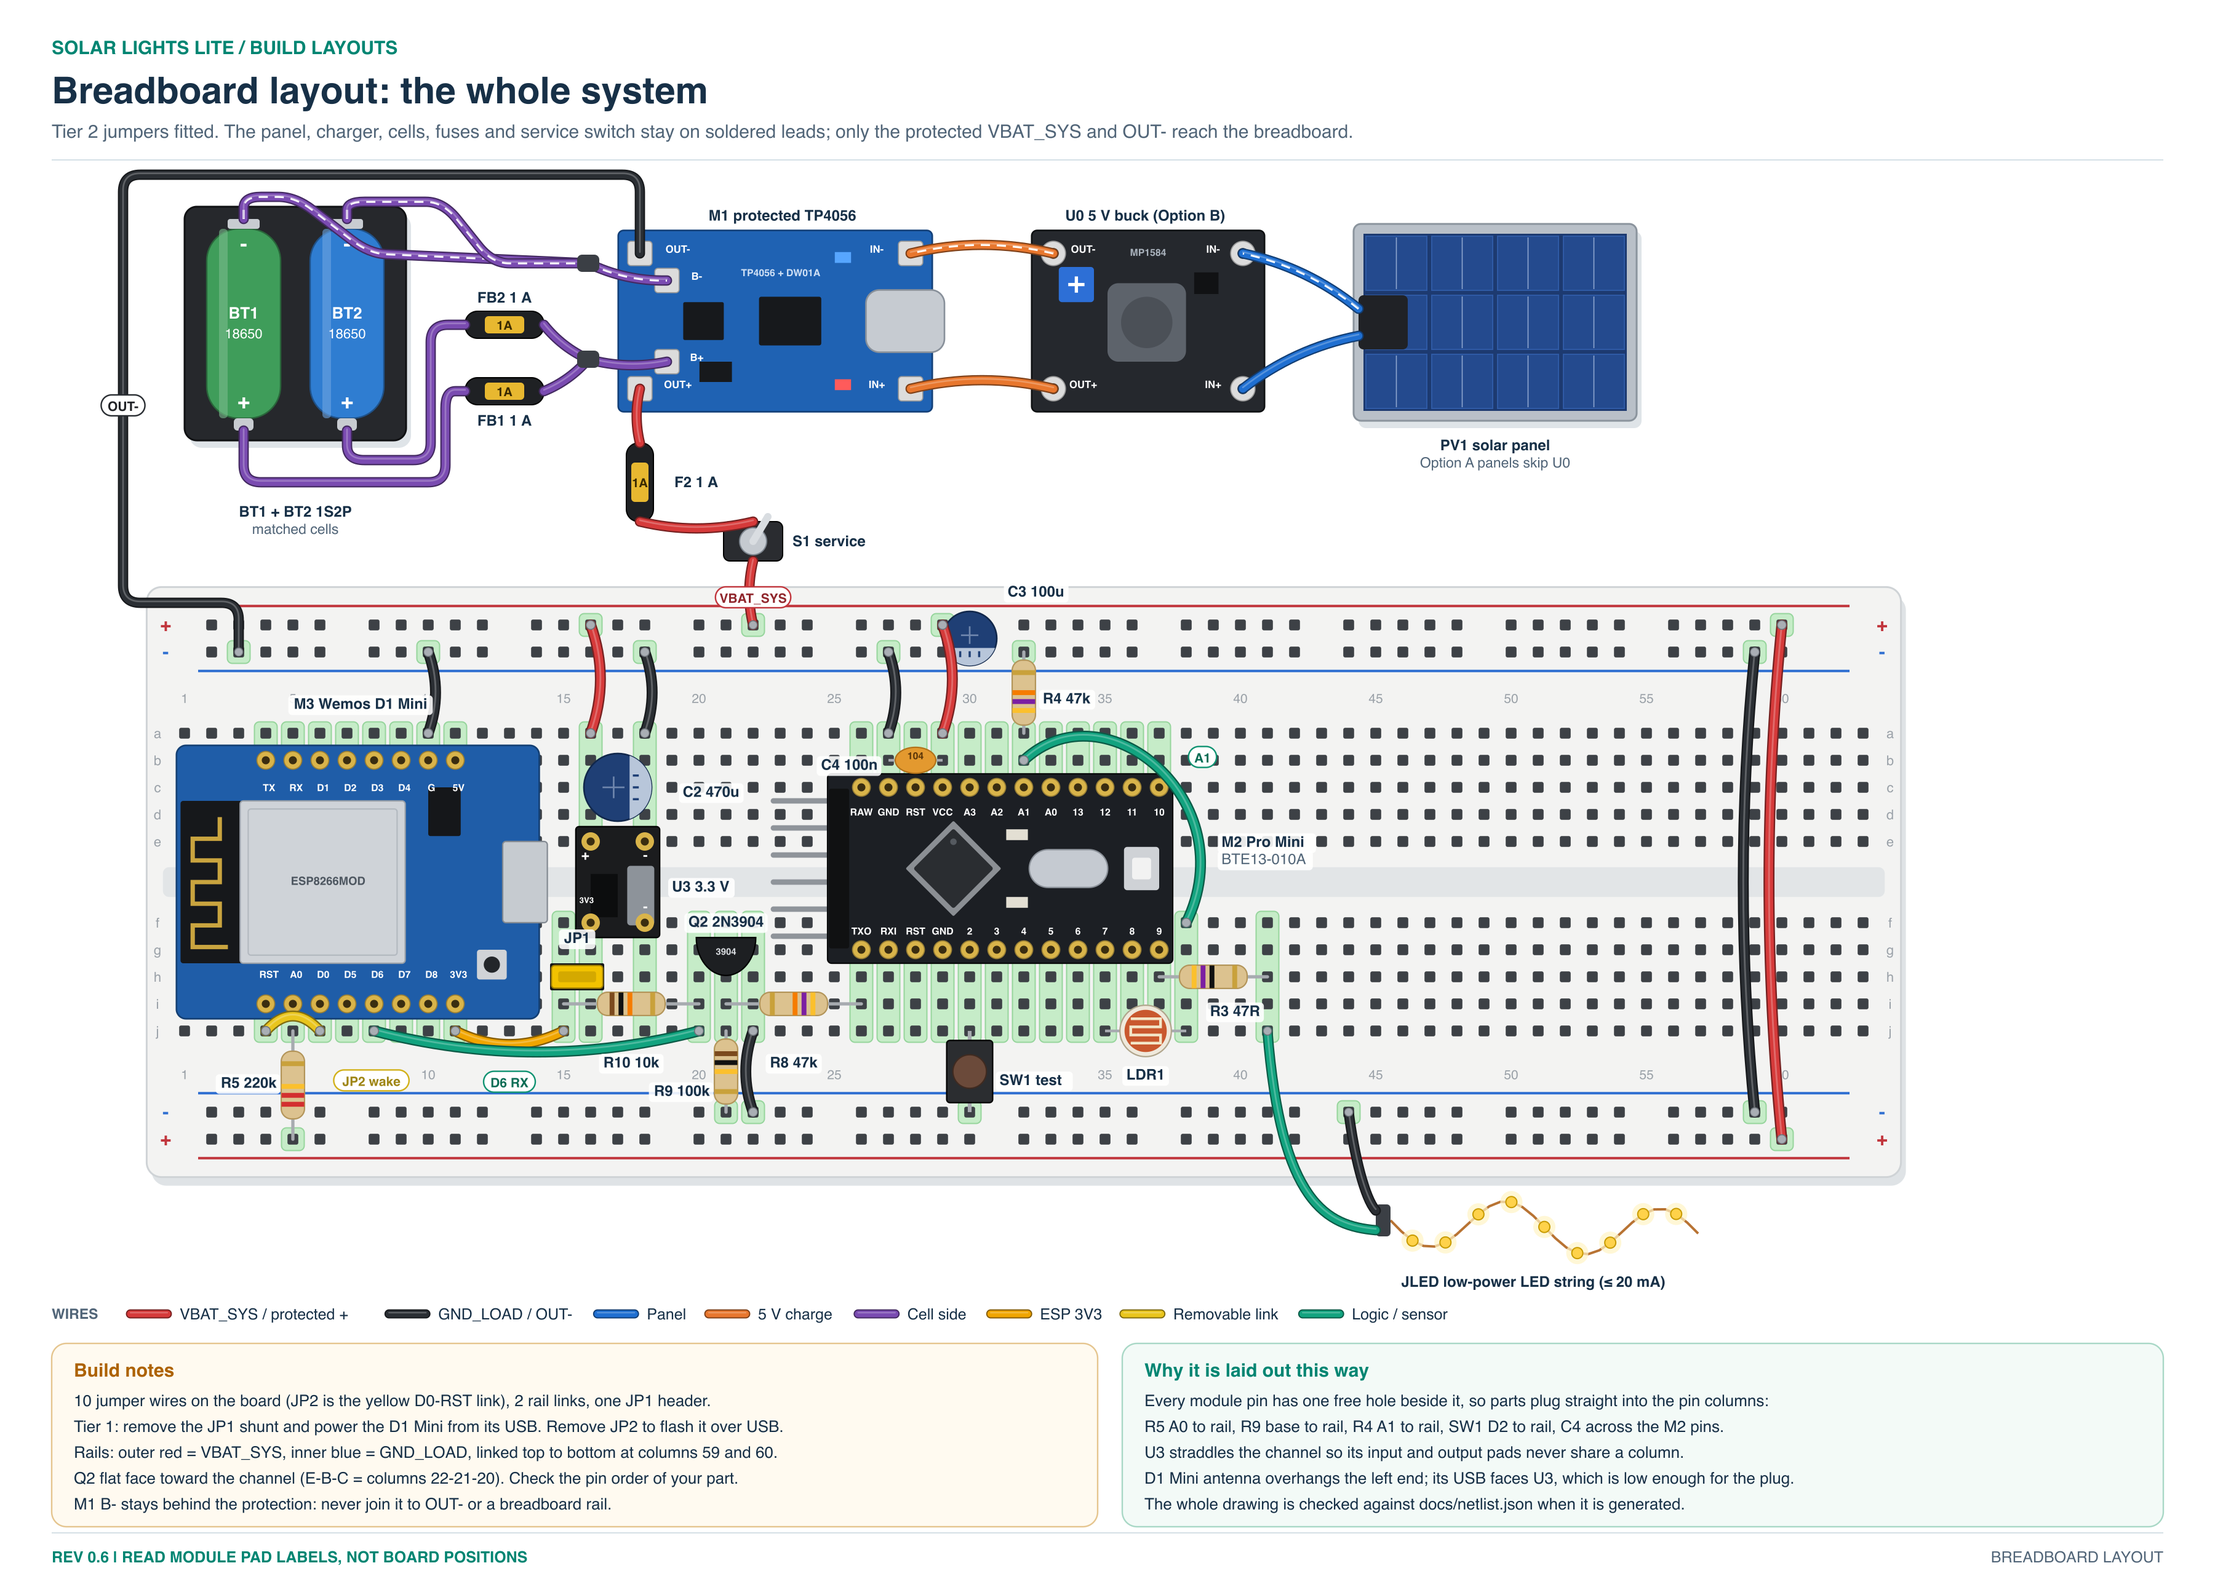
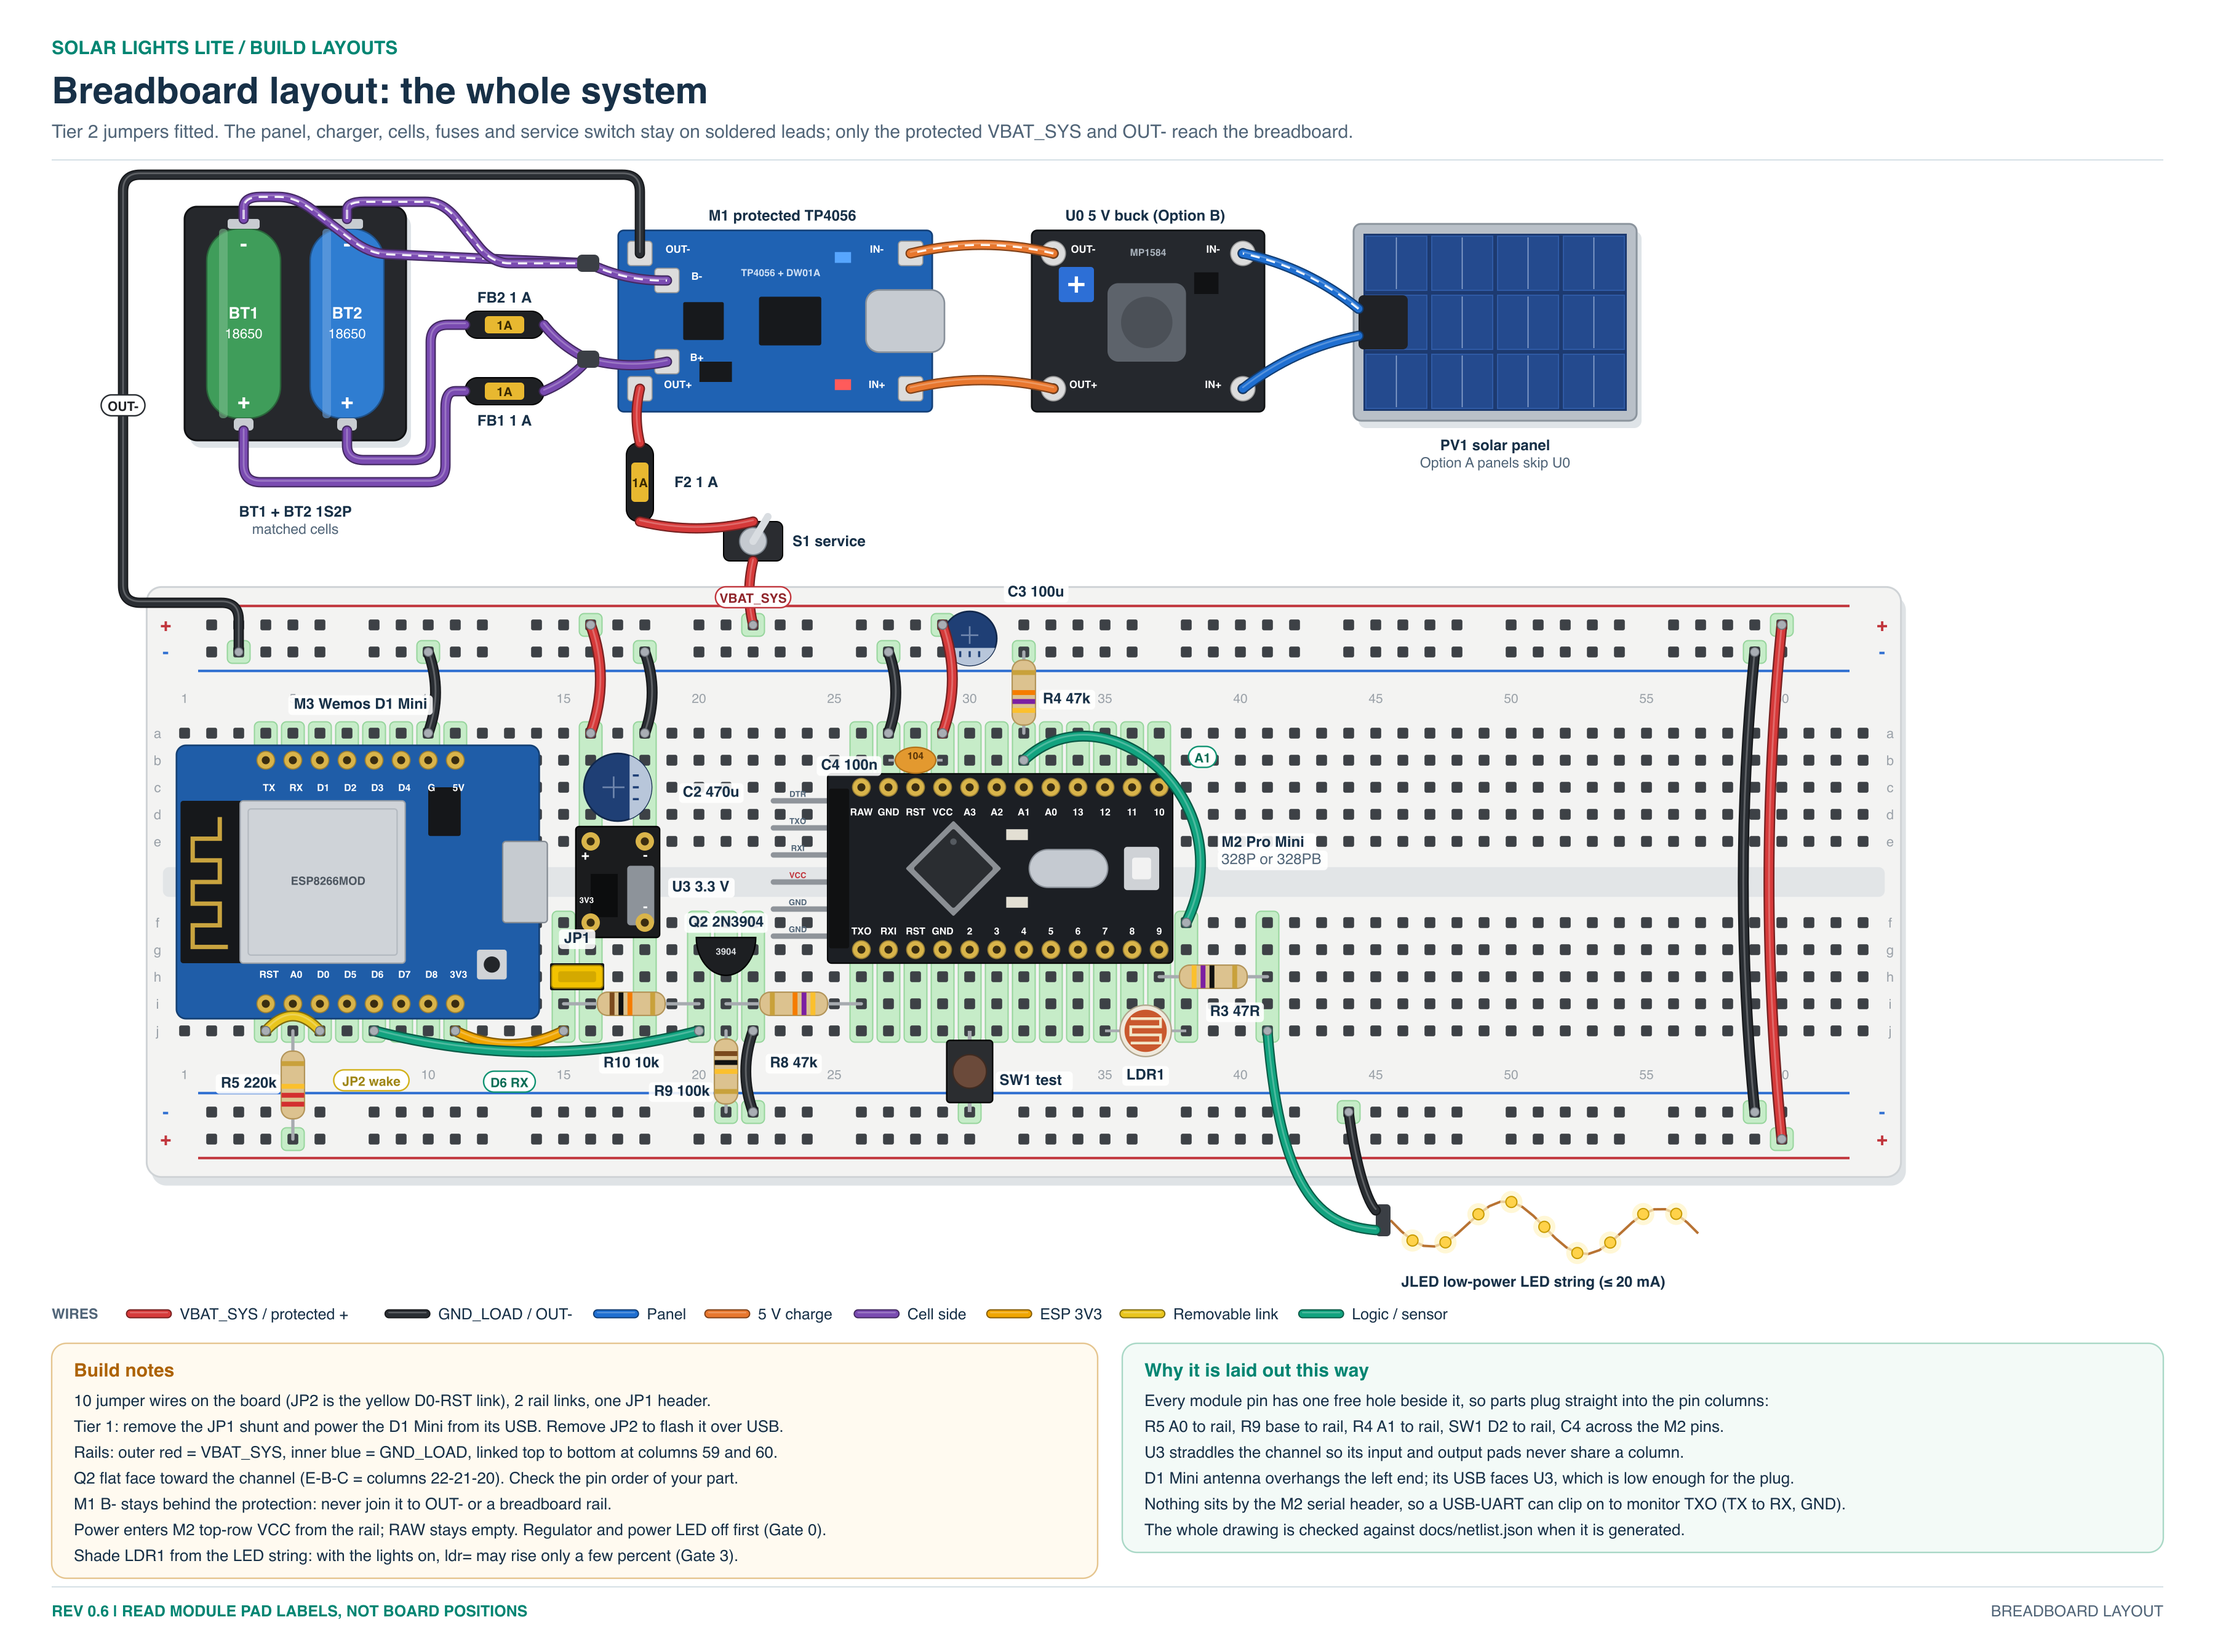
docs(layouts): add serial-header labels and v0.6 build notes
Label the M2 serial header (DTR, TXO, RXI, VCC, GND, GND; VCC is the
top-row VCC rail), mark M2 as 328P or 328PB, and add notes on powering
via VCC not RAW, regulator/LED rework before Gate 0, shading the LDR from
the string, and leaving the serial header free for a USB-UART monitor.

Changed region(s): [[0.0311, 0.031, 0.8711, 0.9922], [0.9022, 0.9612, 0.9644, 0.9922], [0.0933, 0.186, 0.1244, 0.2171]]

diff --git a/tools/make_layouts.py b/tools/make_layouts.py
@@ -145,8 +145,11 @@ def k_promini():
         s.rect(5.35, 1.55, 0.8, 0.4, fill='#e3dfd3')
         s.rect(5.35, 4.05, 0.8, 0.4, fill='#e3dfd3')
         pads(s, pins)
+    # serial header, top to bottom: its VCC is the same rail as top-row VCC
+    head = ['DTR', 'TXO', 'RXI', 'VCC', 'GND', 'GND']
     labels = [(t, i, 0.95, 0.36, '#ffffff') for i, t in enumerate(silk_t)] + \
-             [(t, i, 5.35, 0.36, '#ffffff') for i, t in enumerate(silk_b)]
+             [(t, i, 5.35, 0.36, '#ffffff') for i, t in enumerate(silk_b)] + \
+             [(t, -2.35, k + 0.28, 0.3, RED if t == 'VCC' else MUTED) for k, t in enumerate(head)]
     return dict(pins=pins, body=(-1.25, -0.5, 11.5, 6.5), keep=[(-3.3, 0.3, -1.25, 5.7)], draw=draw, labels=labels)
 
 
@@ -683,7 +686,7 @@ RAIL_COLS = [c for c in range(2, 61) if (c - 2) % 6 != 5]
 
 
 def breadboard():
-    W, H, P = 1800, 1290, 22
+    W, H, P = 1800, 1334, 22
     bb = Board('bb', P, 128, 596)
     free = Board('free', P, 0, 0)
 
@@ -691,7 +694,7 @@ def breadboard():
     bb.add('M3', 'd1mini', 4, 10, 270, label='M3  Wemos D1 Mini', lab=(7.5, -0.9, 'middle'))
     bb.add('U3', 'hl802', 18, 4, 90, label='U3 3.3 V', lab=(19.0, 5.85, 'start'))
     bb.add('C2', 'elec', 16, 2, 0, rad=1.25, pitch=2, label='C2 470u', lab=(19.4, 2.35, 'start'))
-    bb.add('M2', 'promini', 26, 2, 0, label='M2  Pro Mini\nBTE13-010A', lab=(39.3, 4.2, 'start'))
+    bb.add('M2', 'promini', 26, 2, 0, label='M2  Pro Mini\n328P or 328PB', lab=(39.3, 4.2, 'start'))
     bb.add('Q2', 'to92', 22, 8, 180, label='Q2 2N3904', lab=(21, 7.15, 'middle'))
     bb.add('R8', 'res', 26, 10, 180, span=5, ohms=47000, label='R8 47k', lab=(23.5, 12.35, 'middle'))
     bb.add('R9', 'res', 21, 11, 90, span=3, ohms=100000, label='R9 100k', lab=(20.4, 13.4, 'end'))
@@ -887,12 +890,15 @@ def breadboard():
         'Tier 1: remove the JP1 shunt and power the D1 Mini from its USB. Remove JP2 to flash it over USB.',
         'Rails: outer red = VBAT_SYS, inner blue = GND_LOAD, linked top to bottom at columns 59 and 60.',
         'Q2 flat face toward the channel (E-B-C = columns 22-21-20). Check the pin order of your part.',
-        'M1 B- stays behind the protection: never join it to OUT- or a breadboard rail.'])
+        'M1 B- stays behind the protection: never join it to OUT- or a breadboard rail.',
+        'Power enters M2 top-row VCC from the rail; RAW stays empty. Regulator and power LED off first (Gate 0).',
+        'Shade LDR1 from the LED string: with the lights on, ldr= may rise only a few percent (Gate 3).'])
     notes(s, 912, 1092, 846, 'Why it is laid out this way', [
         'Every module pin has one free hole beside it, so parts plug straight into the pin columns:',
         'R5 A0 to rail, R9 base to rail, R4 A1 to rail, SW1 D2 to rail, C4 across the M2 pins.',
         'U3 straddles the channel so its input and output pads never share a column.',
         'D1 Mini antenna overhangs the left end; its USB faces U3, which is low enough for the plug.',
+        'Nothing sits by the M2 serial header, so a USB-UART can clip on to monitor TXO (TX to RX, GND).',
         'The whole drawing is checked against docs/netlist.json when it is generated.'],
         GREEN, '#f3faf7', '#a9d8c6')
     return s
@@ -1030,11 +1036,11 @@ def ascii_map(used):
 
 
 def perfboard():
-    W, H, P = 1800, 1400, 28
+    W, H, P = 1800, 1444, 28
     pb = Board('pb', P, 380, 196)
     add = pb.add
     add('M3', 'd1mini', 10, 1, 90, label='M3  Wemos D1 Mini', lab=(6.6, 12.35, 'middle'))
-    add('M2', 'promini', 33, 1, 90, label='M2  Pro Mini', lab=(30, 13.6, 'middle'))
+    add('M2', 'promini', 33, 1, 90, label='M2  Pro Mini\n328P or 328PB', lab=(30, 13.6, 'middle'))
     add('C4', 'cer', 34, 4, 270, label='C4', lab=(34.5, 1.35, 'middle'))
     add('R4', 'res', 35, 7, 270, ohms=47000, label='R4 47k', lab=(36.2, 5.6, 'start'))
     add('C3', 'elec', 37, 2, 180, rad=1.0, label='C3 100u', lab=(37.2, -0.9, 'middle'))
@@ -1195,12 +1201,15 @@ def perfboard():
         'M2 and M3 plug into female headers. M1, U0 and U3 stand on header pins: their pads are not all on',
         '0.1 in pitch, so bend the pins to suit and follow the pad labels, not these positions.',
         'Tier 1: pull the JP1 shunt and power M3 from USB. Pull JP2 to flash M3 over USB.',
-        'Cable entries: J1 panel, J2 cells, J3 to F2 and S1, J4 LED string, J5 LDR.'])
+        'Cable entries: J1 panel, J2 cells, J3 to F2 and S1, J4 LED string, J5 LDR.',
+        'Flash, check and rework M2 off the carrier (guides 04, 08). Power enters its VCC; RAW is never wired.',
+        'Mount LDR1 where it sees the sky but not the LED string: ldr= may rise only a few percent (Gate 3).'])
     notes(s, 912, 1188, 846, 'Why it is laid out this way', [
         'M3 USB overhangs the left edge; its antenna end faces only small, low parts, away from the cells.',
         'M2 stands on end so TX, D2, D7 and D9 face the parts they drive; A1 and VCC face the right edge.',
         'Traces run under the modules between their pin rows, which is where most of the wiring hides.',
         'M1 B- only reaches J2: it never joins OUT- or any GND_LOAD trace.',
+        'M2 serial header overhangs the top edge, free for a USB-UART monitor (TXO to RX, GND to GND).',
         'The whole drawing is checked against docs/netlist.json when it is generated.'],
         GREEN, '#f3faf7', '#a9d8c6')
     return s
